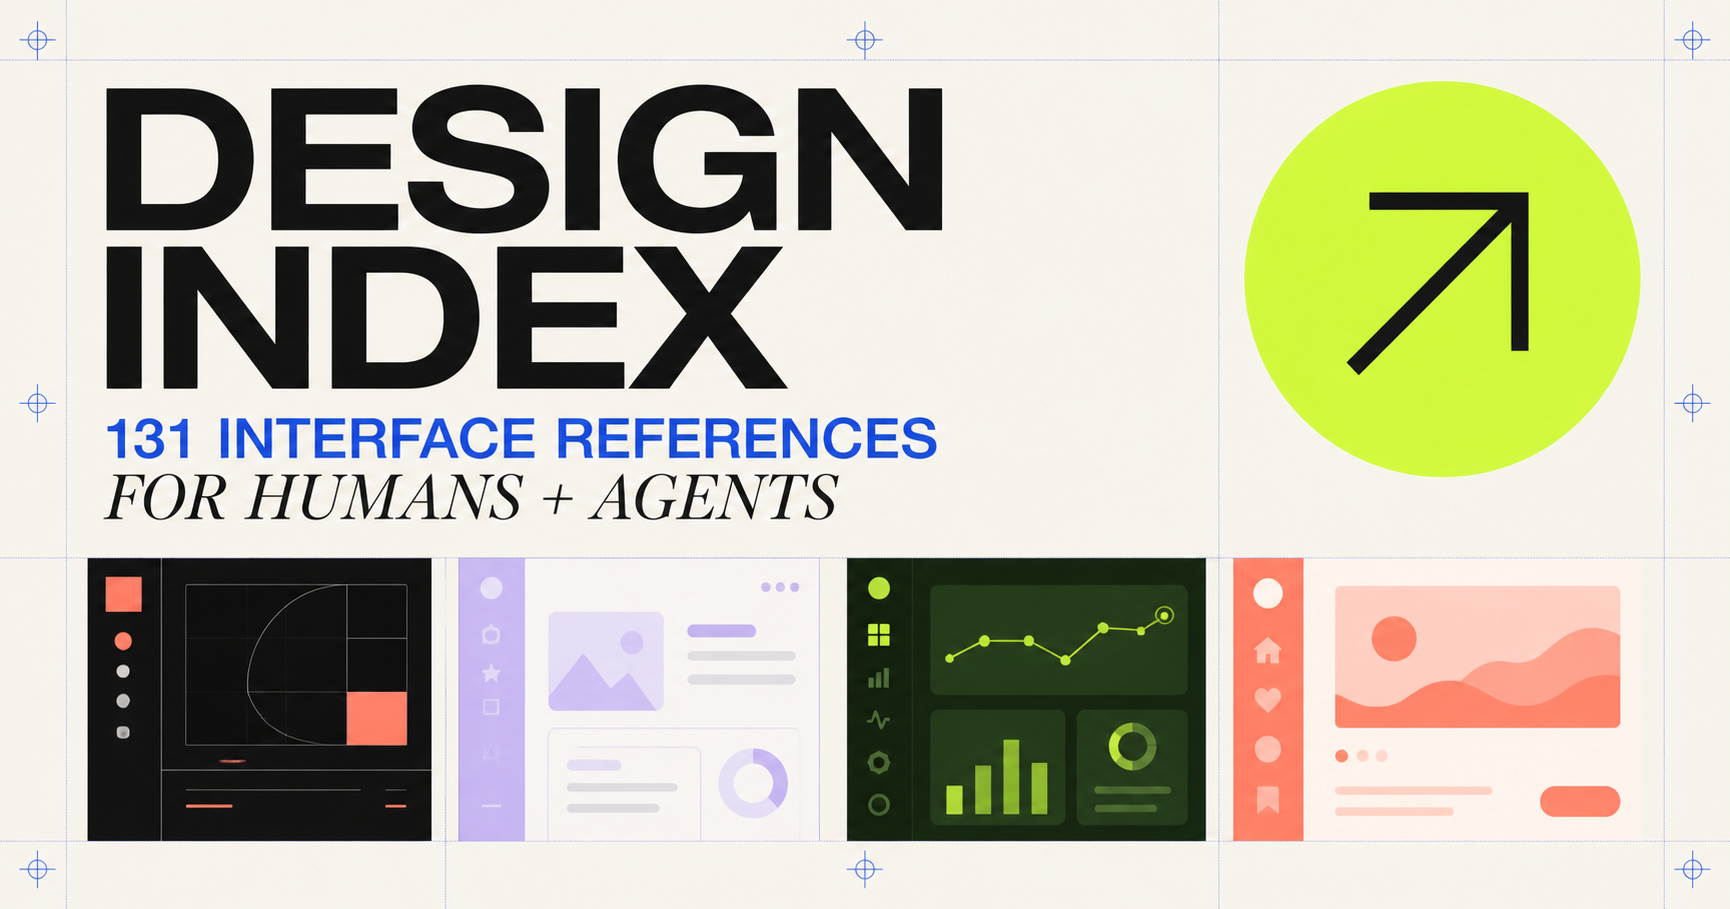
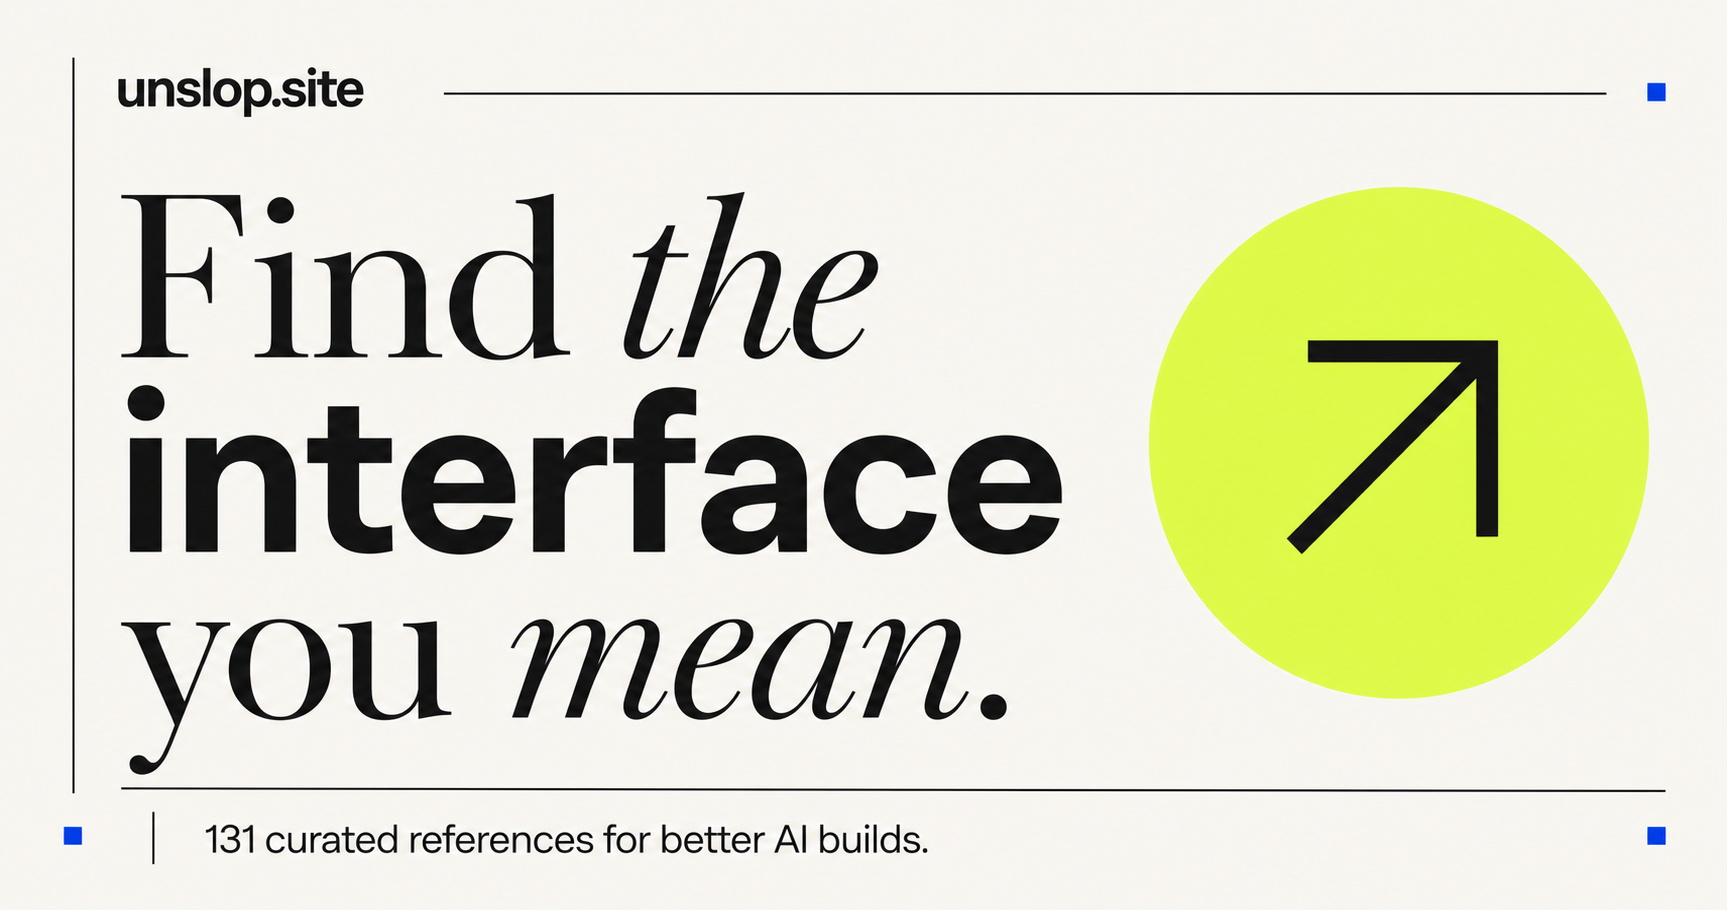
Rebrand gallery as unslop.site

diff --git a/app/gallery.tsx b/app/gallery.tsx
@@ -56,20 +56,20 @@ export function Gallery() {
   return (
     <main>
       <header className="topbar">
-        <Link href="/" className="brand" aria-label="Design Index home">
-          <span className="brand-mark">DI</span>
-          <span>Design Index</span>
+        <Link href="/" className="brand" aria-label="unslop.site home">
+          <span className="brand-mark">u.</span>
+          <span>unslop.site</span>
         </Link>
         <p className="topbar-note">Curated interface references · {allSites.length} studies</p>
         <a className="topbar-link" href="#library">Browse library <span>↓</span></a>
       </header>
 
       <section className="hero">
-        <div className="hero-kicker"><span /> Agent-ready design archive</div>
+        <div className="hero-kicker"><span /> The anti-slop design archive</div>
         <h1>Find the interface<br />you mean.</h1>
         <p className="hero-copy">
           A visual reference library for choosing a direction, briefing an AI agent,
-          and sharing exactly the design you want to build from.
+          and getting past generic first drafts.
         </p>
         <div className="hero-stats" aria-label="Library statistics">
           <div><strong>{allSites.length}</strong><span>Design references</span></div>
@@ -149,8 +149,8 @@ export function Gallery() {
       </section>
 
       <footer>
-        <div><span className="brand-mark inverse">DI</span><strong>Design Index</strong></div>
-        <p>Built for taste-making, clear briefs, and better first drafts.</p>
+        <div><span className="brand-mark inverse">u.</span><strong>unslop.site</strong></div>
+        <p>Better references. Clearer briefs. Less slop.</p>
         <a href="#library">Back to library ↑</a>
       </footer>
     </main>

diff --git a/app/layout.tsx b/app/layout.tsx
@@ -24,20 +24,22 @@ export async function generateMetadata(): Promise<Metadata> {
   const host = requestHeaders.get("x-forwarded-host") || requestHeaders.get("host") || "localhost:3000";
   const protocol = requestHeaders.get("x-forwarded-proto") || (host.includes("localhost") ? "http" : "https");
   const origin = `${protocol}://${host}`;
-  const title = "Design Index — Interface References for Humans & Agents";
-  const description = "Browse, copy, and share 131 design references across landing pages, apps, editorial, commerce, civic, and agency work.";
+  const canonicalOrigin = "https://unslop.site";
+  const title = "unslop.site — Interface References for Better AI Builds";
+  const description = "Find, copy, and share 131 curated interface references for clearer AI briefs and less generic first drafts.";
 
   return {
     metadataBase: new URL(origin),
     title,
     description,
+    alternates: { canonical: canonicalOrigin },
     icons: { icon: "/favicon.svg", shortcut: "/favicon.svg" },
     openGraph: {
       title,
       description,
       type: "website",
-      url: origin,
-      images: [{ url: `${origin}/og.png`, width: 1730, height: 909, alt: "Design Index — 131 interface references for humans and agents" }],
+      url: canonicalOrigin,
+      images: [{ url: `${origin}/og.png`, width: 1727, height: 910, alt: "unslop.site — 131 interface references for better AI builds" }],
     },
     twitter: {
       card: "summary_large_image",

diff --git a/app/site/[slug]/page.tsx b/app/site/[slug]/page.tsx
@@ -13,8 +13,8 @@ export async function generateMetadata({ params }: { params: Promise<{ slug: str
   const site = sitesBySlug.get(slug);
   if (!site) return {};
   return {
-    title: `${site.name} — Design Index`,
-    description: `${site.name}, a ${site.subcategory.toLowerCase()} reference from the Design Index.`,
+    title: `${site.name} — unslop.site`,
+    description: `${site.name}, a ${site.subcategory.toLowerCase()} reference from unslop.site.`,
   };
 }
 
@@ -33,7 +33,7 @@ export default async function SitePage({ params }: { params: Promise<{ slug: str
   return (
     <main className="detail-page">
       <header className="detail-topbar">
-        <Link href="/" className="brand"><span className="brand-mark">DI</span><span>Design Index</span></Link>
+        <Link href="/" className="brand"><span className="brand-mark">u.</span><span>unslop.site</span></Link>
         <nav aria-label="Breadcrumb">
           <Link href="/">Library</Link><span>/</span><span>{site.category}</span><span>/</span><strong>{site.name}</strong>
         </nav>
@@ -92,7 +92,7 @@ export default async function SitePage({ params }: { params: Promise<{ slug: str
 
       <footer className="detail-footer">
         <Link href="/">← Back to the full library</Link>
-        <p>Design Index · {allSites.length} references for humans and agents</p>
+        <p>unslop.site · {allSites.length} references for better AI builds</p>
       </footer>
     </main>
   );

diff --git a/vite.config.ts b/vite.config.ts
@@ -44,9 +44,14 @@ export default defineConfig(async () => {
   const { cloudflare } = await import("@cloudflare/vite-plugin");
 
   return {
-    server: isCodexSeatbeltSandbox
-      ? { watch: { useFsEvents: false, usePolling: true } }
-      : undefined,
+    server: {
+      host: "0.0.0.0",
+      port: 5100,
+      strictPort: true,
+      ...(isCodexSeatbeltSandbox
+        ? { watch: { useFsEvents: false, usePolling: true } }
+        : {}),
+    },
     plugins: [
       vinext(),
       sites(),

diff --git a/app/site/[slug]/actions.tsx b/app/site/[slug]/actions.tsx
@@ -15,7 +15,7 @@ export function SiteActions({ slug, brief }: { slug: string; brief: string }) {
   async function share() {
     const url = `${window.location.origin}/site/${slug}`;
     if (navigator.share) {
-      await navigator.share({ title: "Design Index reference", url });
+      await navigator.share({ title: "unslop.site reference", url });
       return;
     }
     await copy("link");
